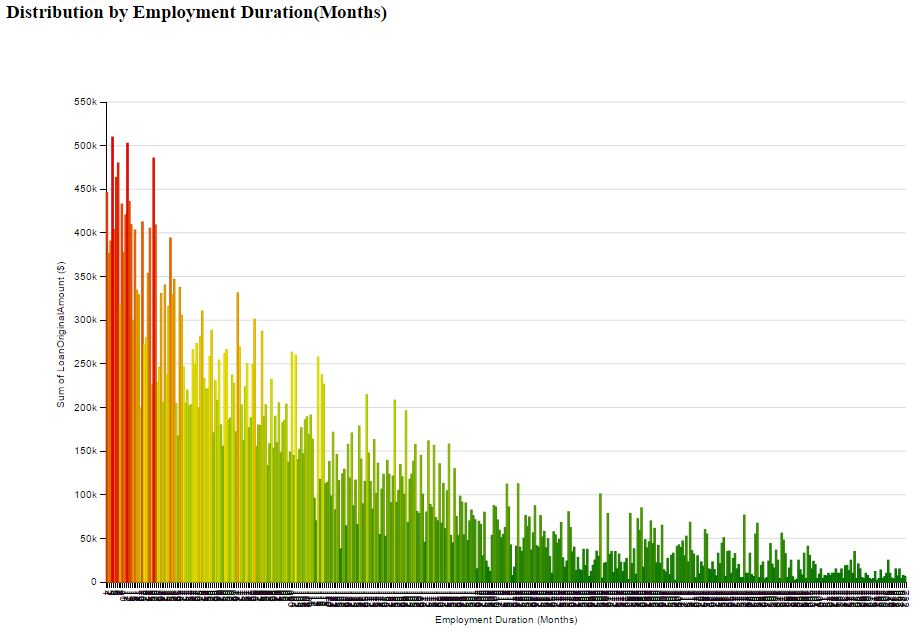
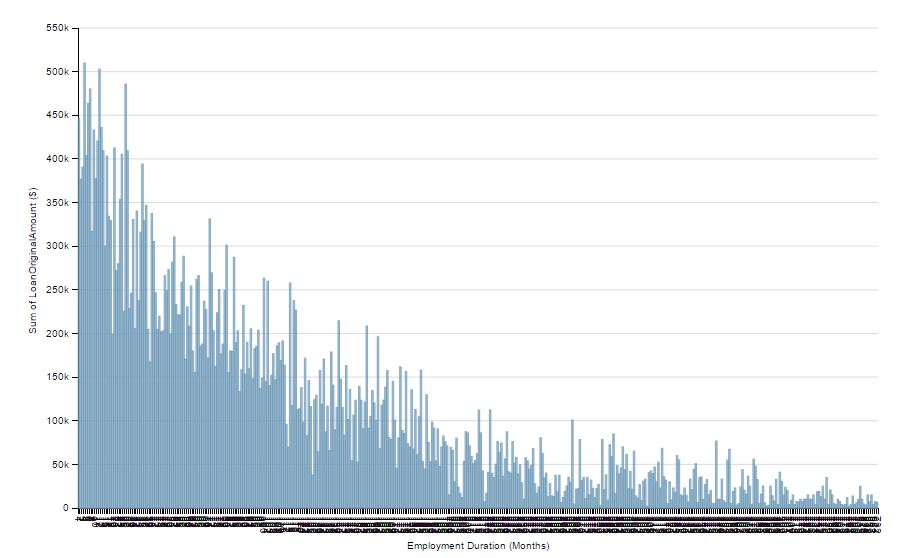
Updated Code after feedback
Added previous index files
Added more description of graph in index file and Readme file
Added new screenshot of graphs

Changed region(s): [[0.0306, 0.1219, 1.0, 1.0], [0.0, 0.0, 0.4289, 0.0609]]

diff --git a/index.html b/index.html
@@ -32,8 +32,10 @@
                 width = 1000 - margin,
                 height = 600 - margin;
 
+            d3.select("body").append("h2").text("Prosper Loan Data Analysis");
+            d3.select("body").append("h4").text("Prosper is America’s first peer-to-peer lending marketplace, with more than 2 million members and over $2,000,000,000 in funded loans. Here we use the data available to the public from Prosper, which contains all the listings and loans ever created with 81 variables on each loan/listing, to do some data analysis. As a part of DAND visualization project, I will explore some of the valiables like loan amount and its distribution across the states and employment details and try to let data tell some ‘behind scene’ stories about the borrowers");
             d3.select("body").append("h3").text("Distribution by State");
-            d3.select("body").append("h5").text("Below chart drawn between State and Sum of Loan amount categorised by Employment Status. Graph shows California state leading over all other state in loan borrowing.");
+            d3.select("body").append("h4").text("Below chart drawn between State and Sum of Loan amount categorised by Employment Status. Graph shows California state leading over all other state in loan borrowing. Each bar of state shows that Employed people are major part of borrowers");
 
             /* Add SVG and Set size*/
             var svg = d3.select("body")
@@ -54,11 +56,11 @@
             y.title = "Sum of LoanOriginalAmount ($)";
             /*Define chart type and Legend */
             myChart.addSeries("EmploymentStatus", dimple.plot.bar);
-            myChart.addLegend(400, 30, 400, 30, "rig;ht");
+            myChart.addLegend(400, 30, 400, 30, "right");
             myChart.draw();
 
             d3.select("body").append("h3").text("Distribution by Employment Duration(Months)");
-            d3.select("body").append("h5").text("Chart Drawn between Employment Duration and Loan amount. Chart shows people with less experiance taking more loan as compare to the more experiance people. Color shade is used to highlight the total loan amount.");
+            d3.select("body").append("h4").text("Chart Drawn between Employment Duration and Loan amount. Chart shows that people with the less experiance are taking a more loan ( or more people taking loan ) compare to the other people.");
             /* Add SVG and Set size*/
             var svg1 = d3.select("body")
                 .append("svg")
@@ -66,6 +68,7 @@
                 .attr("height", height + margin)
                 .append('g')
                 .attr('class', 'chart');
+
             /*Bind Data to chart*/
             var myChart1 = new dimple.chart(svg1, data);
             /*Add X & Y axis to chart*/
@@ -73,12 +76,10 @@
             var y1 = myChart1.addMeasureAxis("y", "LoanOriginalAmount");
             y1.title = "Sum of LoanOriginalAmount ($)";
             x1.title = "Employment Duration (Months)";
-            myChart1.addColorAxis("LoanOriginalAmount", ["green", "yellow", "red"]);
             /*Order x axis by EmploymentStatusDuration*/
             x1.addOrderRule("EmploymentStatusDuration");
             /*Define chart type  */
-            var lines = myChart1.addSeries(null, dimple.plot.bar);
-            lines.lineWeight = 3;
+            myChart1.addSeries(null, dimple.plot.bar);
             myChart1.draw();
         };
     </script>

diff --git a/index1.html b/index1.html
@@ -1,0 +1,91 @@
+<!DOCTYPE html>
+<html>
+  <head>
+    <meta charset="utf-8">
+    <script src="http://d3js.org/d3.v3.min.js"></script>
+    <!script src="d3.min.js"><!/script>
+    <script src="http://dimplejs.org/dist/dimple.v2.0.0.min.js"></script>
+    <!script src="dimple.v2.0.0.min.js"><!/script>
+    <style>
+      circle.dimple-series-1 {
+        fill: red;
+      }
+
+      h2{
+
+      }
+    </style>
+
+    <script type="text/javascript">
+      function draw(data) {
+
+      /*
+        D3.js setup code
+      */
+
+    data = data.filter(function(d){
+        if(d.BorrowerState.length>0 && d.EmploymentStatusDuration.length>0){return true};
+        });
+
+          "use strict";
+          var margin = 75,
+              width = 1000 - margin,
+              height = 600 - margin;
+
+        d3.select("body").append("h3").text("Distribution by State");
+
+          var svg = d3.select("body")
+            .append("svg");
+
+          var myChart = new dimple.chart(svg, data);
+          var x=myChart.addCategoryAxis("x","BorrowerState")
+          myChart.addMeasureAxis("y", "LoanOriginalAmount");
+          /*x.dateParseFormat = "%Y%M";
+          x.tickFormat = "%Y";
+          x.timeInterval = 4;*/
+          var y=myChart.addMeasureAxis("y", "LoanOriginalAmount");
+          y.title="LoanOriginalAmount ($)";
+          myChart.addSeries("EmploymentStatus", dimple.plot.bar);
+          myChart.addLegend(400, 30, 400, 30, "right");
+         /* myChart.addSeries("Occupation", dimple.plot.scatter); */
+          myChart.addLegend(400, 30, 400, 30, "rig;ht");
+          myChart.draw();
+
+          d3.select("body").append("h3").text("Distribution by Employment Duration(Months)");
+
+          var svg1 = d3.select("body")
+            .append("svg")
+              .attr("width", width + margin)
+                .attr('class','chart');
+
+          var myChart1 = new dimple.chart(svg1, data);
+          var x=myChart1.addCategoryAxis("x","EmploymentStatusDuration")
+          myChart1.addMeasureAxis("y", "LoanOriginalAmount");
+          var x1=myChart1.addCategoryAxis("x","EmploymentStatusDuration")
+          /*x1.ticks=20; */
+          var y1=myChart1.addMeasureAxis("y", "LoanOriginalAmount");
+          y1.title="LoanOriginalAmount ($)";
+          x1.title="Employment Duration (Months)";
+          myChart1.addColorAxis("LoanOriginalAmount", ["green", "yellow", "red"]);
+         /* myChart1.addSeries(null, dimple.plot.line);*/
+          /*myChart1.addLegend(750, 30, 500, 30, "right");*/
+          x.addOrderRule("EmploymentStatusDuration");
+         /* myChart.addSeries("EstimatedLoss", dimple.plot.scatter);*/
+          x1.addOrderRule("EmploymentStatusDuration");
+          /*x1.tickFormat = "d";
+          x1.tickValues=d3.range(0,560,24);*/
+          var lines = myChart1.addSeries(null, dimple.plot.line);
+          lines.lineWeight = 3;
+          lines.lineMarkers = true;
+          myChart1.draw();
+        };
+
+    /*
+    Use D3 (not dimple.js) to load the TSV file
+    and pass the contents of it to the draw function
+    */
+  d3.csv("prosperLoanData1.csv", draw);
+
+  </script>
+</body>
+</html>

diff --git a/index2.html b/index2.html
@@ -1,0 +1,88 @@
+<!DOCTYPE html>
+<html>
+  <head>
+    <meta charset="utf-8">
+    <script src="http://d3js.org/d3.v3.min.js"></script>
+    <!script src="d3.min.js"><!/script>
+    <script src="http://dimplejs.org/dist/dimple.v2.0.0.min.js"></script>
+    <!script src="dimple.v2.0.0.min.js"><!/script>
+    <style>
+      circle.dimple-series-1 {
+        fill: red;
+      }
+
+      h2{
+
+      }
+    </style>
+
+    <script type="text/javascript">
+      function draw(data) {
+
+      /*
+        D3.js setup code
+      */
+
+          "use strict";
+          var margin = 75,
+              width = 1400 - margin,
+              height = 600 - margin;
+
+          d3.select("body").append("h2").text("Prosper Loan Distribution by Employment & ProsperRating");
+
+          var svg = d3.select("body")
+            .append("svg")
+              .attr("width", width + margin)
+              .attr("height", height + margin)
+            .append('g')
+                .attr('class','chart');
+
+      /*
+        Dimple.js Chart construction code
+      */
+
+          var myChart = new dimple.chart(svg, data);
+          /*var x = myChart.addTimeAxis("x", "LoanOriginationDate"); */
+          var x=myChart.addCategoryAxis("x","BorrowerState")
+          myChart.addMeasureAxis("y", "LoanOriginalAmount");
+          /*x.dateParseFormat = "%Y%M";
+          x.tickFormat = "%Y";
+          x.timeInterval = 4;*/
+          myChart.addSeries("EmploymentStatus", dimple.plot.bar);
+          myChart.addLegend(750, 30, 500, 30, "right");
+         /* myChart.addSeries("Occupation", dimple.plot.scatter); */
+          myChart.draw();
+
+          var svg1 = d3.select("body")
+            .append("svg")
+              .attr("width", width + margin)
+              .attr("height", height + margin)
+            .append('g')
+                .attr('class','chart');
+
+          var myChart1 = new dimple.chart(svg1, data);
+          var x=myChart1.addCategoryAxis("x","EmploymentStatusDuration")
+          myChart1.addMeasureAxis("y", "LoanOriginalAmount");
+          myChart1.addColorAxis("LoanOriginalAmount", ["green", "yellow", "red"]);
+         /* myChart1.addSeries(null, dimple.plot.line);*/
+          /*myChart1.addLegend(750, 30, 500, 30, "right");*/
+          x.addOrderRule("EmploymentStatusDuration");
+         /* myChart.addSeries("EstimatedLoss", dimple.plot.scatter);*/
+          var lines = myChart1.addSeries(null, dimple.plot.line);
+          lines.lineWeight = 3;
+          lines.lineMarkers = true;
+          myChart1.draw();
+        };
+
+    </script>
+  </head>
+<body>
+  <script type="text/javascript">
+  /*
+    Use D3 (not dimple.js) to load the TSV file
+    and pass the contents of it to the draw function
+    */
+  d3.csv("prosperLoanData1.csv", draw);
+  </script>
+</body>
+</html>

diff --git a/README.md b/README.md
@@ -5,14 +5,16 @@ In the GitHub sample data the clear pattern may not appear but locally run code 
 1) First Gragh clealy show that CA (California) is a leading state for taking a Loan.
 2) First graph also shows most of the loan taken by Employeed people.
 !['Bar Chart 1'](Distribution by State & Employment.JPG)
-3) Second graph shows that please with the less experiance or who just started the employment are taking a more loan compare to the 
-   other people.
+3) Second graph shows that people with the less experiance are taking a more loan ( or more people taking loan ) compare to the other people.
 !['Bar Chart 2'](Distribution by Employment Duration.JPG)
 
 # Design 
 Stacked bar graph for Employment Status was choosen to incorporate as much variable as possible in a very cleanest way. Occupation was choosen 
 Instead of Employment Status  but it was drop as Employment Status give better breakup of data.
+Simple bar chart should have serve the purpose to show that CA is leading in loan borrowing but it is always good practive to give 
+more details to the user in a single graph if it is not graph complicated to understand hence Employment Status was introduced later to show breakup. 
 The initial design was to draw line graph between Employment Duration and Loan amount. After getting a review it was changed to bar chart.
+
 
 # Feedback 
 Base on the below feedback graph design was changed such as I removed circles, title was given to each graph with short description, 
@@ -40,4 +42,5 @@ I think you should remove them before plotting it.
 Dataset :From the given dataset I used "Intermediate-Loan Data from Prosper" data for my visualisation.
 Code    : http://bl.ocks.org/
           http://d3js.org/
+		  http://dimplejs.org/
 
